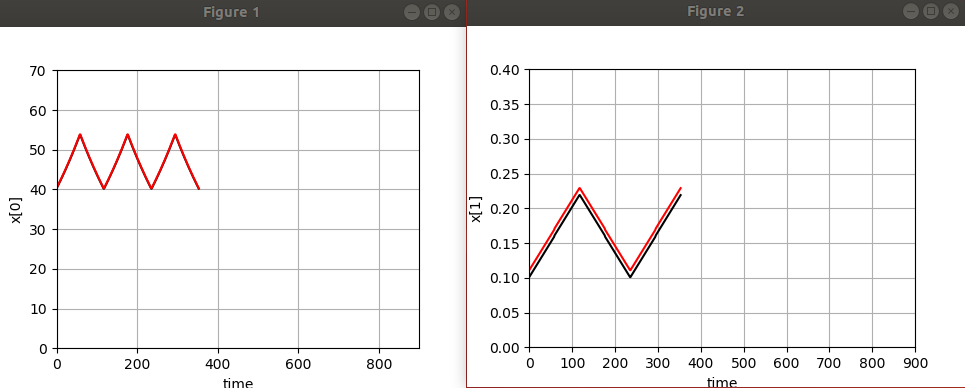
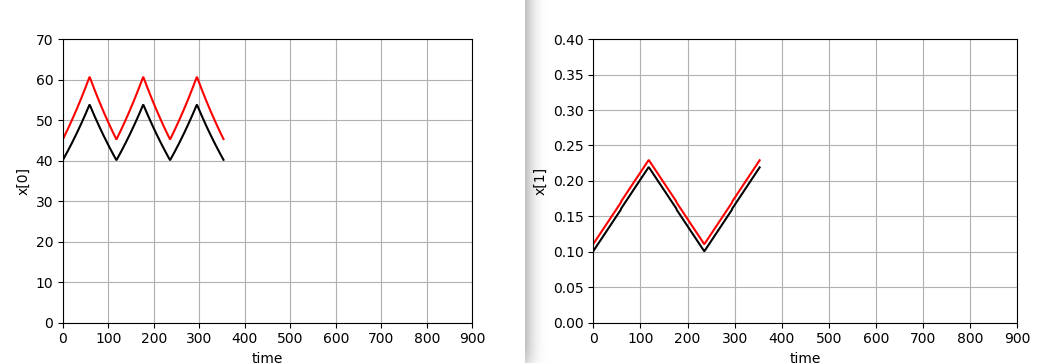
images3

diff --git a/solarWaterHeating/main.cpp b/solarWaterHeating/main.cpp
@@ -52,7 +52,7 @@ int main()
 
 
     IntervalVector W(2);
-    W[0]= Interval(40.0,40.1);
+    W[0]= Interval(40.0,45.1);
     W[1]= Interval(0.1,0.11);
 
     const int n = 2;
